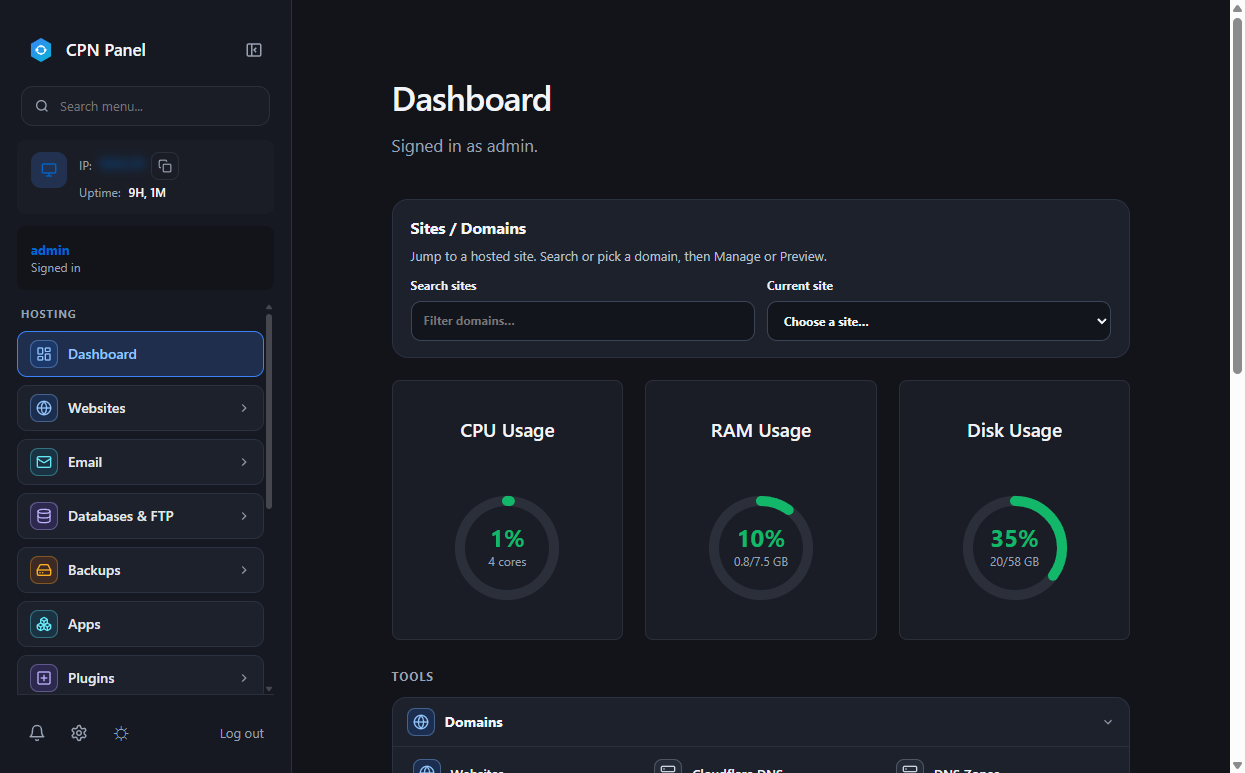
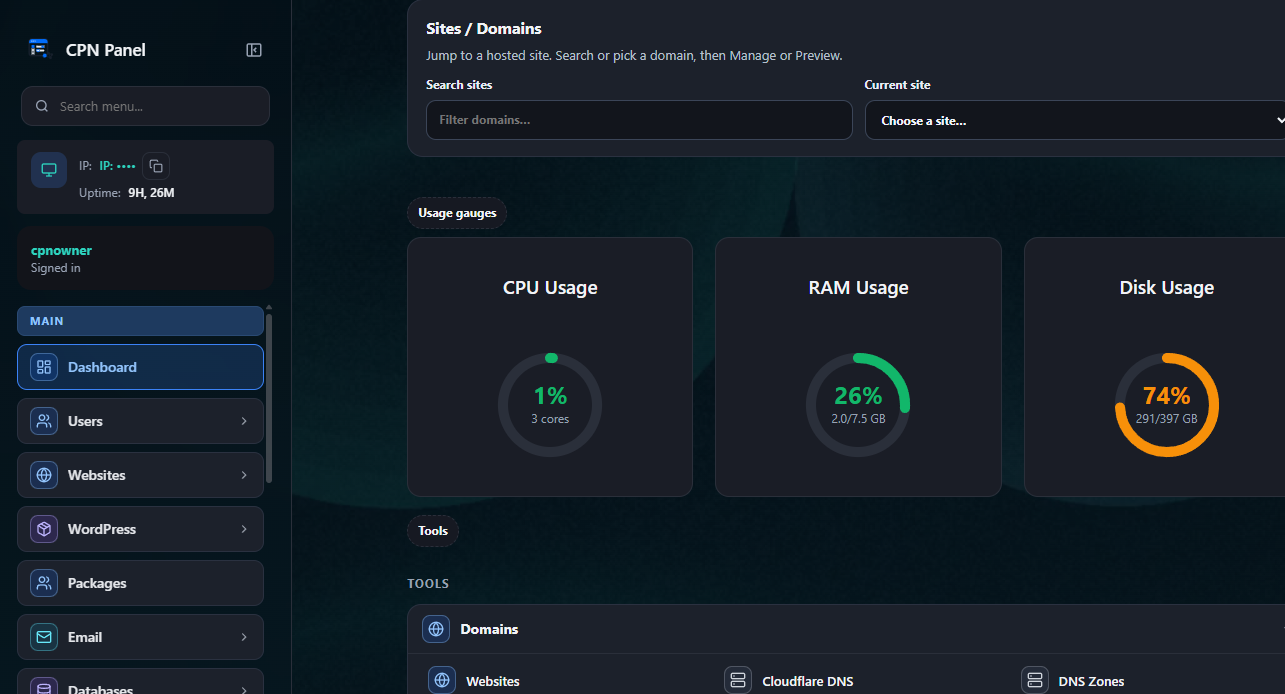
docs(readme): refresh panel screenshots to current UI
Replace dashboard, websites, and sign-in images so the GitHub README matches current dark chrome, websites pagination, and Open preview.

diff --git a/README.md b/README.md
@@ -10,11 +10,11 @@
 **CPN** (Control Panel Network) is a Rust web installer and hosting control panel from [News Targeted](https://newstargeted.com), with contributions and support from [Discord Bot Network](https://discord-bot-network.com). Install on AlmaLinux, Rocky, RHEL, Ubuntu, or Debian; manage sites, mail, databases, SSL, and more from the panel. Windows Server has a limited Phase A path.
 
 <p align="center">
-  <img src="docs/images/cpn-dashboard.png" alt="CPN Panel dashboard" width="900">
+  <img src="docs/images/cpn-dashboard.png" alt="CPN Panel dashboard with usage gauges" width="900">
 </p>
 
 <p align="center">
-  <img src="docs/images/cpn-websites.png" alt="CPN Panel websites list" width="440">
+  <img src="docs/images/cpn-websites.png" alt="CPN Panel websites list with pagination and Open preview" width="440">
   &nbsp;
   <img src="docs/images/cpn-login.png" alt="CPN Panel sign-in" width="440">
 </p>
